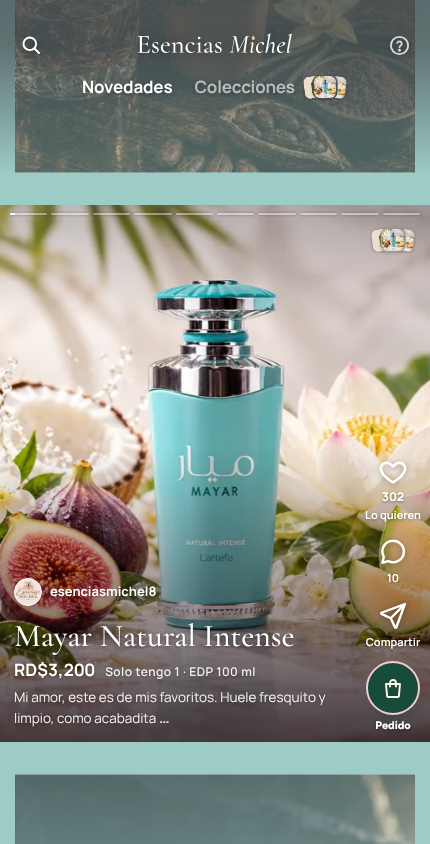
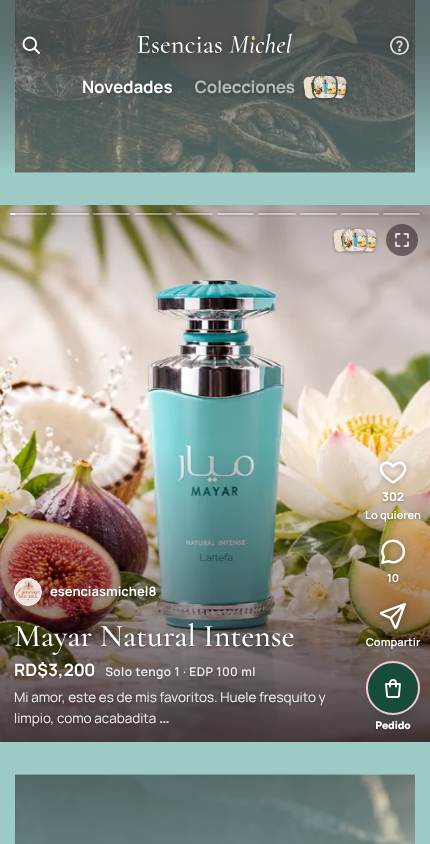
Vista enfocada: toque en toda la foto, pellizco y botón de expandir
- `.cap` y `.acts` dejan pasar el dedo; solo sus controles reales lo
  reciben. Tocar cualquier parte de la foto que no sea un control abre la
  vista (solo queda fuera la franja de arriba).
- Pellizcar la foto del reel abre la vista una sola vez y el mismo gesto
  sigue acercando dentro; sin zoom de página (`touch-action: pan-x pan-y`).
- Botón «Ver foto en grande» arriba a la derecha bajo las barras; la
  colección se corre a su izquierda y el sonido del video baja.

Claude-Session: https://claude.ai/code/session_01VD3DSW9ZEaTNeKsUXGCXkm

Changed region(s): [[0.7558, 0.2464, 0.9674, 0.3081]]

diff --git a/components/tienda/medios.tsx b/components/tienda/medios.tsx
@@ -103,6 +103,8 @@ const suscribirVisibilidad = (avisar: () => void) => {
 };
 /** Doble toque: misma ventana que antes (el «aaah»). Un toque solo abre la vista enfocada cuando ya no puede llegar el segundo. */
 const DOBLE_TOQUE = 320;
+/** Franja de arriba de la foto que no abre la vista enfocada (barras, colección y botón de expandir). */
+const FRANJA_ARRIBA = 56;
 export function Medios({
   medios,
   nombre,
@@ -130,6 +132,9 @@ export function Medios({
   const [indice, setIndice] = useState(0);
   const [dedo, setDedo] = useState(false);
   const [enfocada, setEnfocada] = useState<number | null>(null);
+  // Si la vista se abrió con un pellizco, el mismo gesto sigue acercando dentro de ella.
+  const [conPellizco, setConPellizco] = useState(false);
+  const abierta = useRef(false);
   // Elegir una foto por color reinicia su barra aunque ya estuviera en ella.
   const [vuelta, setVuelta] = useState(0);
   const [irAnterior, setIrAnterior] = useState(irA);
@@ -164,21 +169,66 @@ export function Medios({
     if (!el || !corre || indice >= medios.length - 1) return;
     el.scrollTo({ left: (indice + 1) * el.clientWidth, behavior: "smooth" });
   };
-  /** Toque en la zona central de la foto: fuera quedan arriba (barras, sonido), la columna de botones y la descripción. */
-  const enCentro = (e: React.PointerEvent<HTMLDivElement>) => {
-    const r = e.currentTarget.getBoundingClientRect();
-    const cap = e.currentTarget.parentElement?.querySelector(".cap")?.getBoundingClientRect();
-    const abajo = cap && cap.height ? cap.top - 8 : r.bottom - r.height * 0.3;
-    return e.clientY > r.top + 44 && e.clientY < abajo && e.clientX > r.left + 24 && e.clientX < r.right - 72;
-  };
-  const abrirEnfocada = () => {
+  /** Toda la foto abre la vista enfocada: los controles del reel reciben sus propios toques (el resto de `.cap` y `.acts`
+   * deja pasar el dedo) y solo queda fuera la franja de arriba, con las barras y el botón de expandir. */
+  const enFoto = (e: React.PointerEvent<HTMLDivElement>) => e.clientY > e.currentTarget.getBoundingClientRect().top + FRANJA_ARRIBA;
+  const abrirEnfocada = (pellizco = false) => {
     const el = ref.current;
-    if (!el || !activoRef.current) return;
+    if (!el || !activoRef.current || abierta.current) return;
+    abierta.current = true;
+    if (pendiente.current) clearTimeout(pendiente.current);
+    pendiente.current = null;
     history.pushState({ ...history.state, catalogoFoto: true }, "", location.href);
+    setConPellizco(pellizco);
     setEnfocada(Math.round(el.scrollLeft / el.clientWidth));
   };
+  // Pellizcar la foto del reel (separar dos dedos) abre la vista enfocada, como un toque. Con eventos táctiles: en Safari de
+  // iPhone son más fiables que los de puntero; `touch-action: pan-x pan-y` del carrusel evita el zoom de la página.
+  const pinza = useRef<{ d0: number } | null>(null);
+  const multitoque = useRef(false);
+  const abrirRef = useRef(abrirEnfocada);
+  useEffect(() => {
+    abrirRef.current = abrirEnfocada;
+  });
+  useEffect(() => {
+    const el = ref.current;
+    if (!el) return;
+    const distancia = (t: TouchList) => Math.hypot(t[0].clientX - t[1].clientX, t[0].clientY - t[1].clientY);
+    const inicio = (e: TouchEvent) => {
+      if (e.targetTouches.length < 2) return;
+      multitoque.current = true;
+      pinza.current = { d0: Math.max(1, distancia(e.targetTouches)) };
+    };
+    const mueve = (e: TouchEvent) => {
+      const p = pinza.current;
+      if (!p || e.targetTouches.length < 2) return;
+      e.preventDefault();
+      if (abierta.current) return;
+      const d = distancia(e.targetTouches);
+      if (d > p.d0 * 1.2 || d > p.d0 + 24) abrirRef.current(true);
+    };
+    const fin = (e: TouchEvent) => {
+      if (e.targetTouches.length < 2) pinza.current = null;
+      if (e.targetTouches.length === 0) setTimeout(() => (multitoque.current = false), 0);
+    };
+    const evitar = (e: Event) => e.preventDefault();
+    el.addEventListener("touchstart", inicio, { passive: true });
+    el.addEventListener("touchmove", mueve, { passive: false });
+    el.addEventListener("touchend", fin);
+    el.addEventListener("touchcancel", fin);
+    el.addEventListener("gesturestart", evitar);
+    return () => {
+      el.removeEventListener("touchstart", inicio);
+      el.removeEventListener("touchmove", mueve);
+      el.removeEventListener("touchend", fin);
+      el.removeEventListener("touchcancel", fin);
+      el.removeEventListener("gesturestart", evitar);
+    };
+  }, []);
   const cerrarEnfocada = (i: number) => {
     const el = ref.current;
+    abierta.current = false;
+    setDedo(false);
     setEnfocada(null);
     if (!el) return;
     el.scrollTo({ left: i * el.clientWidth, behavior: "instant" });
@@ -210,6 +260,8 @@ export function Medios({
         onPointerLeave={() => setDedo(false)}
         onPointerUp={(e) => {
           setDedo(false);
+          // Un pellizco no es un toque: ni «aaah» ni vista enfocada al soltar los dedos.
+          if (multitoque.current || abierta.current) return;
           if (
             Math.hypot(e.clientX - tap.current.x, e.clientY - tap.current.y) >
             12
@@ -225,11 +277,11 @@ export function Medios({
           }
           tap.current.t = now;
           // Mantener pulsado pausa (como una historia) y no abre nada al soltar.
-          if (now - tap.current.abajo < 450 && enCentro(e)) {
+          if (now - tap.current.abajo < 450 && enFoto(e)) {
             if (pendiente.current) clearTimeout(pendiente.current);
             pendiente.current = setTimeout(() => {
               pendiente.current = null;
-              abrirEnfocada();
+              abrirRef.current();
             }, DOBLE_TOQUE);
           }
         }}
@@ -279,8 +331,18 @@ export function Medios({
           ))}
         </div>
       )}
+      {medios.some((m) => m.tipo === "foto") && (
+        <button
+          type="button"
+          className={"expandir ov" + (varios ? " con-historias" : "")}
+          aria-label="Ver foto en grande"
+          onClick={() => abrirEnfocada()}
+        >
+          <Icono nombre="expandir" />
+        </button>
+      )}
       {enfocada !== null && (
-        <VistaEnfocada medios={medios} nombre={nombre} inicial={enfocada} cerrada={cerrarEnfocada} />
+        <VistaEnfocada medios={medios} nombre={nombre} inicial={enfocada} cerrada={cerrarEnfocada} pellizco={conPellizco} />
       )}
     </>
   );

diff --git a/components/tienda/vista-enfocada.tsx b/components/tienda/vista-enfocada.tsx
@@ -22,12 +22,15 @@ export function VistaEnfocada({
   nombre,
   inicial,
   cerrada,
+  pellizco = false,
 }: {
   medios: Medio[];
   nombre: string;
   inicial: number;
   /** Al terminar de cerrar, con la última foto vista. */
   cerrada: (indice: number) => void;
+  /** Se abrió pellizcando la foto del reel: los mismos dedos siguen acercando aquí hasta que se levantan. */
+  pellizco?: boolean;
 }) {
   const [actual, setActual] = useState(inicial);
   const [saliendo, setSaliendo] = useState(false);
@@ -123,6 +126,35 @@ export function VistaEnfocada({
     // eslint-disable-next-line react-hooks/exhaustive-deps
   }, [raiz]);
 
+  const centro = (p: Punto): Punto => {
+    const r = ref.current!.getBoundingClientRect();
+    return { x: p.x - r.left - r.width / 2, y: p.y - r.top - r.height / 2 };
+  };  /** Pellizco que viene del reel (dos puntos) o su fin (null): misma cuenta que la pinza propia de la vista. */
+  const pellizcoInicial = useRef(pellizco);
+  const pinzaExterna = useRef<{ d0: number; z0: Zoom; local: Punto } | null>(null);
+  const pellizcoRef = useRef((dedosAhora: [Punto, Punto] | null) => {
+    void dedosAhora;
+  });
+  useLayoutEffect(() => {
+    pellizcoRef.current = (dedosAhora) => {
+      if (!dedosAhora) {
+        pinzaExterna.current = null;
+        if (zoom.current.s < 1.05) aplicar({ s: 1, x: 0, y: 0 }, true);
+        return;
+      }
+      const [a, b] = dedosAhora;
+      const d = Math.max(1, Math.hypot(a.x - b.x, a.y - b.y));
+      const m = centro({ x: (a.x + b.x) / 2, y: (a.y + b.y) / 2 });
+      const p = pinzaExterna.current;
+      if (!p) {
+        const z = zoom.current;
+        pinzaExterna.current = { d0: d, z0: { ...z }, local: { x: (m.x - z.x) / z.s, y: (m.y - z.y) / z.s } };
+        return;
+      }
+      const s = limitar((p.z0.s * d) / p.d0, 1, ZOOM_MAX);
+      aplicar(acotar({ s, x: m.x - s * p.local.x, y: m.y - s * p.local.y }));
+    };
+  });
   // Modal estable: fondo inerte y sin scroll, teclado, «atrás» y gestos propios de Safari bloqueados.
   useEffect(() => {
     if (!raiz) return;
@@ -147,6 +179,24 @@ export function VistaEnfocada({
     };
     const evitar = (e: Event) => e.preventDefault();
     const el = ref.current;
+    // El pellizco que abrió la vista sigue apuntando a la foto del reel: se escucha en la ventana hasta soltar.
+    const sigue = (e: TouchEvent) => {
+      if (e.touches.length < 2) return;
+      e.preventDefault();
+      pellizcoRef.current([...e.touches].slice(0, 2).map((t) => ({ x: t.clientX, y: t.clientY })) as [Punto, Punto]);
+    };
+    const suelta = (e: TouchEvent) => {
+      if (e.touches.length >= 2) return;
+      pellizcoRef.current(null);
+      window.removeEventListener("touchmove", sigue, true);
+      window.removeEventListener("touchend", suelta, true);
+      window.removeEventListener("touchcancel", suelta, true);
+    };
+    if (pellizcoInicial.current) {
+      window.addEventListener("touchmove", sigue, { capture: true, passive: false });
+      window.addEventListener("touchend", suelta, true);
+      window.addEventListener("touchcancel", suelta, true);
+    }
     window.addEventListener("keydown", tecla, true);
     window.addEventListener("popstate", pop);
     document.addEventListener("gesturestart", evitar);
@@ -156,15 +206,15 @@ export function VistaEnfocada({
       window.removeEventListener("popstate", pop);
       document.removeEventListener("gesturestart", evitar);
       el?.removeEventListener("touchmove", evitar);
+      window.removeEventListener("touchmove", sigue, true);
+      window.removeEventListener("touchend", suelta, true);
+      window.removeEventListener("touchcancel", suelta, true);
       html.style.overflow = overflow;
       fondoInerte.forEach((el, i) => (el.inert = estados[i]));
     };
   }, [raiz]);
 
-  const centro = (p: Punto): Punto => {
-    const r = ref.current!.getBoundingClientRect();
-    return { x: p.x - r.left - r.width / 2, y: p.y - r.top - r.height / 2 };
-  };
+
   const inicioDe = (p: Punto) => {
     const g = gesto.current;
     g.modo = null;

diff --git a/app/tienda/catalogo.css b/app/tienda/catalogo.css
@@ -8582,6 +8582,70 @@ html.catalogo-html,
     transform: scaleX(1);
   }
 }
+/* Toda la foto abre la vista enfocada: las cajas de la descripción y de los botones dejan pasar el dedo y solo sus
+   controles reales lo reciben. Con la descripción abierta («…») manda su panel. */
+.catalogo-publico .reel.on .cap,
+.catalogo-publico .reel.on .acts {
+  pointer-events: none;
+}
+.catalogo-publico .reel.on:not(.open) .cap :is(button, a, input, select, textarea, summary, [role="button"]),
+.catalogo-publico .reel.on .acts :is(button, a) {
+  pointer-events: auto;
+}
+/* Sin zoom de página al pellizcar la foto: el pellizco abre la vista enfocada. Deslizar sigue igual en los dos ejes. */
+.catalogo-publico .carrusel {
+  touch-action: pan-x pan-y;
+}
+/* Botón para ver la foto en grande: esquina superior derecha, bajo las barras. 44 px de toque, 32 px visibles. */
+.catalogo-publico .expandir {
+  position: absolute;
+  top: 3px;
+  right: 6px;
+  z-index: 5;
+  width: 44px;
+  height: 44px;
+  padding: 0;
+  border: 0;
+  background: none;
+  color: var(--surface);
+  display: grid;
+  place-items: center;
+  cursor: pointer;
+  transition: transform var(--mov-rapida) var(--curva-salida), opacity var(--mov-rapida) var(--curva-salida);
+}
+.catalogo-publico .expandir.con-historias {
+  top: 13px;
+}
+.catalogo-publico .expandir::before {
+  content: "";
+  position: absolute;
+  inset: 6px;
+  border-radius: 50%;
+  background: color-mix(in srgb, var(--ink) 55%, transparent);
+  -webkit-backdrop-filter: blur(8px);
+  backdrop-filter: blur(8px);
+}
+.catalogo-publico .expandir svg {
+  position: relative;
+  width: 18px;
+  height: 18px;
+}
+.catalogo-publico .expandir:active {
+  transform: scale(var(--mov-presion));
+}
+.catalogo-publico .expandir:focus-visible {
+  outline: 2px solid var(--surface);
+  outline-offset: -4px;
+  border-radius: 50%;
+}
+.catalogo-publico .reel.open .expandir {
+  opacity: 0;
+  pointer-events: none;
+}
+/* La colección queda a la izquierda del botón de expandir, a 8 px de su círculo. */
+.catalogo-publico .topmeta.con-expandir {
+  right: 52px;
+}
 .catalogo-publico .topmeta.con-historias {
   top: 22px;
 }
@@ -8696,7 +8760,7 @@ html.catalogo-html,
 .catalogo-publico .sonido {
   position: absolute;
   right: 16px;
-  top: 52px;
+  top: 64px; /* bajo el botón de expandir */
   border: 0;
   border-radius: 50%;
   width: 44px;

diff --git a/components/tienda/iconos.tsx b/components/tienda/iconos.tsx
@@ -13,7 +13,8 @@ export type NombreIcono =
   | "sound"
   | "mute"
   | "ficha"
-  | "close";
+  | "close"
+  | "expandir";
 export function Icono({ nombre }: { nombre: NombreIcono }) {
   const paths: Partial<Record<NombreIcono, string>> = {
     heart:
@@ -30,6 +31,7 @@ export function Icono({ nombre }: { nombre: NombreIcono }) {
     sound: "M11 4 6 8H3v8h3l5 4z M15 8a6 6 0 0 1 0 8M18 5a10 10 0 0 1 0 14",
     mute: "M11 4 6 8H3v8h3l5 4z M16 9l5 6 M21 9l-5 6",
     close: "M6 6l12 12M18 6 6 18",
+    expandir: "M4 9V4h5M15 4h5v5M20 15v5h-5M9 20H4v-5",
     ficha: "M7 3h7l5 5v12a1 1 0 0 1-1 1H7a1 1 0 0 1-1-1V4a1 1 0 0 1 1-1z M14 3v5h5 M9 13h6 M9 17h6",
   };
   if (nombre === "wa")

diff --git a/components/tienda/reel.tsx b/components/tienda/reel.tsx
@@ -261,7 +261,7 @@ export function Reel({
           </>
         )}
         <div className="shade ov" />
-        {(coleccion || enPedido) && <div className={"topmeta ov" + (p.medios.length > 1 ? " con-historias" : "")}>
+        {(coleccion || enPedido) && <div className={"topmeta ov" + (p.medios.length > 1 ? " con-historias" : "") + (p.medios.some((m) => m.tipo === "foto") ? " con-expandir" : "")}>
           <span>{enPedido && <span className="inbadge">En tu pedido</span>}</span>
           {coleccion && (
             <span className="hcov reel-coleccion" role="img" aria-label={"Colección " + coleccion.nombre} data-coleccion={coleccion.nombre}>

diff --git a/lib/novedades.ts b/lib/novedades.ts
@@ -22,6 +22,10 @@ export type Novedad = {
 
 const TODAS: Novedad[] = [
   {
+    version: "0.63.0", fecha: "2026-10-11", titulo: "Tus fotos, más a la mano.",
+    cambios: ["Tus clientes ven la foto en grande tocándola en cualquier parte, pellizcándola o con el botón de la esquina."],
+  },
+  {
     version: "0.62.0", fecha: "2026-10-11", titulo: "Tu tienda, a un toque.",
     cambios: ["En iPhone, una animación te muestra cómo añadir Deslizapp a tu pantalla de inicio.", "En Android, un botón «Instalar Deslizapp» lo hace por ti.", "Y en el menú de tu tienda queda una fila «Instalar app» mientras no la tengas instalada."],
   },

diff --git a/docs/04-pantallas.md b/docs/04-pantallas.md
@@ -1061,7 +1061,7 @@ mismo tono — no se deja el texto por defecto de un framework de UI.
 - **Pausas:** con el dedo apoyado en la foto, con una hoja o el perfil encima, con la descripción abierta, con la vista enfocada, con la pestaña oculta y cuando el reel deja de ser el activo. Al volver a ser el activo **sigue en la foto y el punto de la barra donde estaba** (como retomar una historia a medias).
 - **El usuario manda:** deslizar a mano o elegir una foto por color reinicia el temporizador en la foto elegida.
 - **Movimiento:** el llenado se anima solo con `transform: scaleX()`. Con movimiento reducido no hay avance automático: la barra activa solo se marca.
-- **Vista enfocada:** un toque simple en la zona central de la foto (no arriba, ni la columna de botones, ni la descripción) la abre cuando ya no puede llegar el segundo toque (320 ms); el doble toque sigue dando el «aaah» y mantener pulsado no abre nada. Pantalla completa con fondo negro, la foto entera (`contain`), solo la × arriba y, con varias fotos, «2 / 4». Pellizco de 1× a 4×, doble toque entre 1× y 2,5× donde se tocó, con zoom arrastrar sin salirse de los bordes; sin zoom, deslizar a los lados cambia de foto y hacia abajo cierra. Cierra con la ×, deslizar abajo, Escape y el «atrás» (una entrada de historial que se consume al cerrar). Al cerrar, el carrusel queda en la última foto vista. Diálogo modal «Fotos de <producto>», foco en la × y de vuelta a la foto, flechas para cambiar de foto. Entrada y salida cortas con opacidad y escala (sin animación con movimiento reducido); bloquea el scroll del fondo y usa gestos propios (`touch-action: none`). [Encargo](prompts/carrusel-historias-y-vista-enfocada.md) y [entrega](handoffs/carrusel-historias-vista-enfocada.md).
+- **Vista enfocada:** se abre de tres formas (cambio del 11 oct 2026 tras la prueba de Lewis en iPhone). (1) Un toque simple en **cualquier parte de la foto** que no sea un control (el nombre, el precio y el texto también cuentan; solo queda fuera la franja de arriba con barras, colección y botón), cuando ya no puede llegar el segundo toque (320 ms): las cajas de la descripción (`.cap`) y de los botones (`.acts`) dejan pasar el dedo y solo sus controles reales lo reciben. El doble toque sigue dando el «aaah», mantener pulsado no abre nada y con la descripción abierta manda su panel. (2) **Pellizcar la foto** (separar dos dedos sobre ella, más de un 20 % o 24 px) la abre a 1× en la foto actual, una sola vez, y el mismo gesto sigue acercando dentro de la vista; no hace zoom de página (`touch-action: pan-x pan-y` en el carrusel), no cuenta si un dedo está en un control ni con una hoja abierta, y pausa las barras como el dedo apoyado. (3) **Botón de expandir** arriba a la derecha, bajo las barras: solo símbolo, 44 px de toque y 32 px visibles, círculo translúcido como «Historia» del panel, «Ver foto en grande»; abre la misma vista con la misma entrada de historial y el foco vuelve a la foto. Se oculta con la descripción abierta y solo aparece si hay al menos una foto. La colección queda a su izquierda (8 px del círculo) y el botón de sonido del video baja a 64 px para no tocarlo. Pantalla completa con fondo negro, la foto entera (`contain`), solo la × arriba y, con varias fotos, «2 / 4». Pellizco de 1× a 4×, doble toque entre 1× y 2,5× donde se tocó, con zoom arrastrar sin salirse de los bordes; sin zoom, deslizar a los lados cambia de foto y hacia abajo cierra. Cierra con la ×, deslizar abajo, Escape y el «atrás» (una entrada de historial que se consume al cerrar). Al cerrar, el carrusel queda en la última foto vista. Diálogo modal «Fotos de <producto>», foco en la × y de vuelta a la foto, flechas para cambiar de foto. Entrada y salida cortas con opacidad y escala (sin animación con movimiento reducido); bloquea el scroll del fondo y usa gestos propios (`touch-action: none`). [Encargo](prompts/carrusel-historias-y-vista-enfocada.md) y [entrega](handoffs/carrusel-historias-vista-enfocada.md).
 
 **Video en la ficha (desde el 7 oct 2026):** no se pueden agregar videos (`VIDEO_PERMITIDO = false`, `lib/config.ts`); la tira de medios queda como la de fotos. Los videos que ya existen se siguen viendo y se pueden mover y quitar.
 

diff --git a/docs/handoffs/carrusel-historias-vista-enfocada.md b/docs/handoffs/carrusel-historias-vista-enfocada.md
@@ -11,6 +11,16 @@
 - **Ronda 2 (pedido de Lewis):** la etiqueta de texto de la colección («Para ella»…) pasa a ser el abanico de miniaturas de «Colecciones» arriba a la derecha del reel, con la carátula de la colección del producto al frente (`abanicoDeColeccion` en `lib/tienda/catalogo.ts`; también en la vista previa). «En tu pedido» queda a la izquierda. No es tocable.
 - Icono `close` nuevo en `iconos.tsx`. Novedad `0.61.0` en `lib/novedades.ts` (la `0.60.0` es la de la guía, #103). Docs: `04-pantallas.md` (párrafo de #101 marcado como sustituido + regla nueva), `12-catalogo-conectado.md`, excepción de movimiento en `HANDOFF.md` y `08-movimiento.md`.
 
+## Ronda 3 · toque, pellizco y botón (11 oct 2026, rama `fix/enfocada-toque-pinch-boton`)
+
+Lewis probó #102 en producción (iPhone, tienda `deslizapp`, «El Librito») y pidió por medio de Planning:
+
+1. **El toque solo funcionaba en algunas zonas.** `.cap` y `.acts` interceptaban los toques en su espacio vacío y `enCentro()` excluía todo lo que quedaba por debajo de la descripción. Ahora `.reel.on .cap` y `.reel.on .acts` tienen `pointer-events: none` y solo sus controles reales (`button`, `a`, campos; en `.cap` solo sin la descripción abierta) vuelven a `auto`. `enCentro()` pasa a `enFoto()`, que solo excluye la franja de arriba (56 px: barras, colección y botón). El nombre, el precio y el texto ahora abren la vista.
+2. **El pellizco abre la vista.** `touchstart`/`touchmove` no pasivos sobre `.carrusel` con `targetTouches` (los dos dedos sobre la foto) abren al separarse más de un 20 % o 24 px. `touch-action: pan-x pan-y` y `gesturestart` cancelado evitan el zoom de página solo ahí; el viewport de `app/layout.tsx` no se toca, así que el zoom de accesibilidad del resto de la app sigue. `abierta` evita una segunda apertura y el pellizco no cuenta como toque ni como «aaah». La vista recibe `pellizco` y sigue el mismo gesto escuchando `touchmove` en la ventana hasta soltar (en Chromium llega a 2,6×).
+3. **Botón de expandir** (`.expandir`, icono `expandir`): esquina superior derecha bajo las barras, círculo translúcido de 32 px con área de 44 px, «Ver foto en grande». Abre la misma vista (misma entrada de historial y el foco vuelve a la foto). La colección se corre a su izquierda (`.topmeta.con-expandir`, 8 px del círculo) y el sonido del video baja de 52 a 64 px.
+
+Novedad `0.63.0`. Pruebas: `probar-carrusel-historias.mjs`, 253 comprobaciones. Incluye una malla de 9×11 puntos con `elementFromPoint` a 360/390/430 px y con 1/3/10 medios (cada punto sin control cae en el carrusel), el nombre que abre la vista, «…» que abre la descripción y no la vista, el panel abierto que no abre nada, el botón (historial, Escape, foco y geometría sin solapes con la colección ni el sonido) y el pellizco (una sola apertura, sin zoom de página, juntar los dedos no abre, con una hoja abierta tampoco, con un dedo en un control tampoco). No se pudo probar Safari real de iPhone ni el pellizco físico.
+
 ## Pruebas
 
 - `npm run lint` (0 errores; avisos `<img>` previos), `npm run tipos`, `npm test` (589 pasan), `npm run build`.
